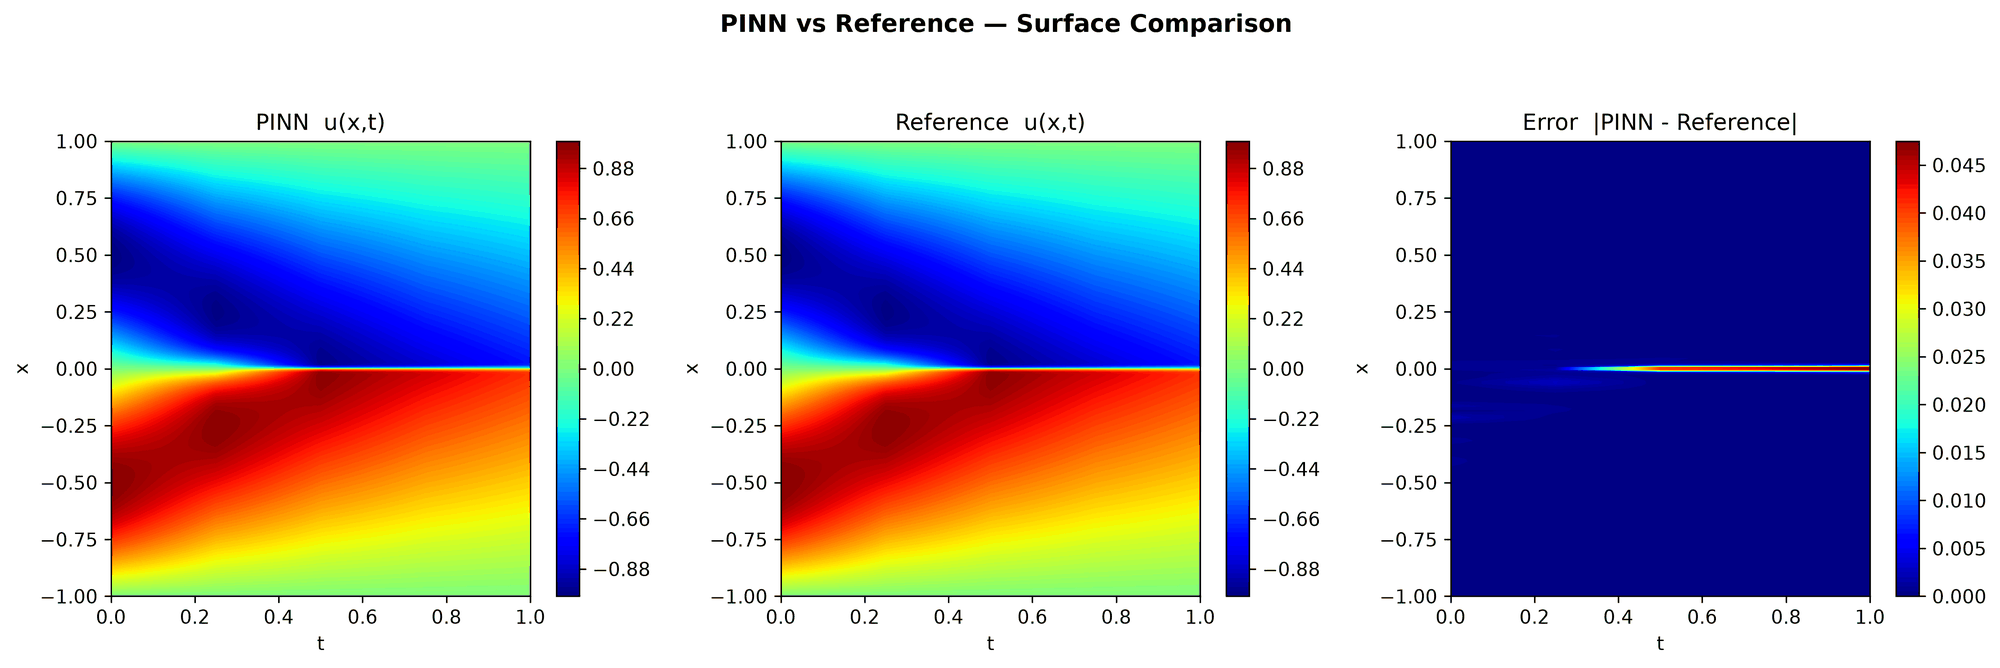
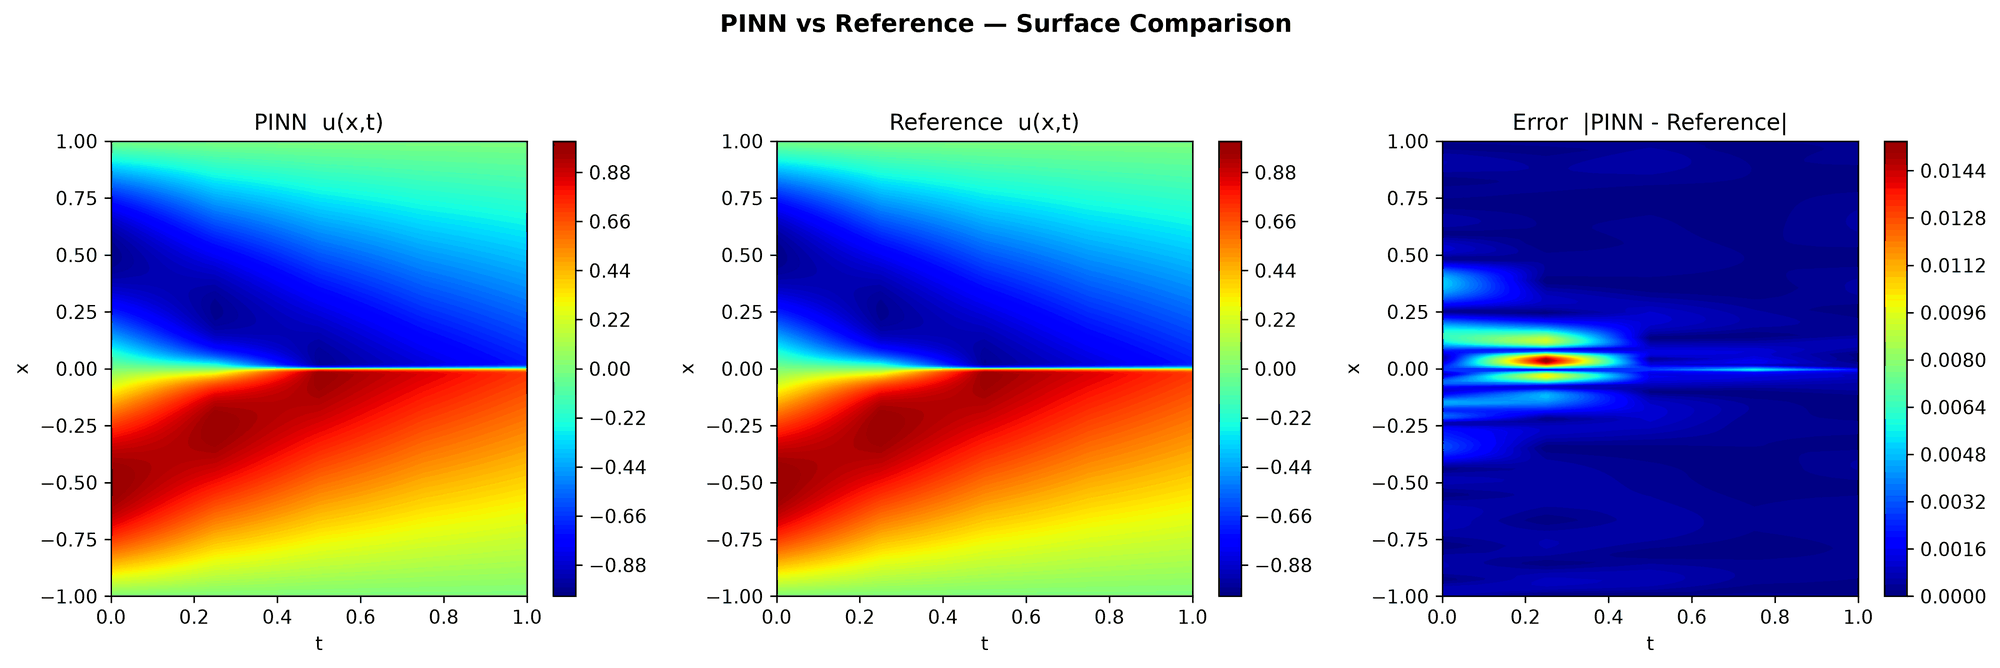
Burgers 1D – RAR: 3 rounds of 100 highest-residual points (DeepXDE's 1-point/0.005 loop would stop after one point here), README note, result and collocation-points figure

diff --git a/pinnstudio/core/deepxde_examples.py b/pinnstudio/core/deepxde_examples.py
@@ -511,14 +511,15 @@ EXAMPLES = [
         dict(pde_expressions="du_t + u*du_x - 0.01/pi*du_xx", ic_expressions="-sin(pi*x)",
              custom_bc_json=_bcs(_bc("dirichlet", "True", "0")),
              num_domain=2500, num_boundary=100, num_initial=160, num_test=1000,
-             adapt_method="RAR", rar_candidates=100000, rar_add_points=1, rar_adam_iters=10000,
-             rar_lbfgs_iters=15000, rar_tolerance=0.005, rar_cycles=100,
+             adapt_method="RAR", rar_candidates=100000, rar_add_points=100, rar_adam_iters=10000,
+             rar_lbfgs_iters=15000, rar_tolerance=0.0, rar_cycles=3,
              ea_files=_BURGERS_REF),
         _net([2, 20, 20, 20, 1], "Glorot normal"), _adam(10000), _LBFGS,
         note=_BURGERS_NOTE + " "
-             "DeepXDE adds one point per round until the mean residual is below 0.005, with early stopping "
-             "inside each round's Adam phase; here rounds stop at the same tolerance (capped at 100) and "
-             "run their full Adam iterations."),
+             "RAR: 3 rounds, each adding the 100 points with the largest residual (out of 100,000 candidates) "
+             "and retraining, with no residual tolerance. DeepXDE's script adds 1 point per round until the mean "
+             "residual is below 0.005, but after the first training the mean residual is already below that "
+             "(about 3e-3), so its loop would add a single point and stop -- too little to show refinement."),
 
     _ex("Heat equation", FORWARD, _DOCS + "pinn_forward/heat.html",
         _time_1d(0, 1, 0, 1),

diff --git a/CHANGELOG.md b/CHANGELOG.md
@@ -49,6 +49,7 @@ The format is based on [Keep a Changelog](https://keepachangelog.com/en/1.1.0/).
 ### Changed
 
 - **DeepXDE's plain Burgers 1D example removed** (62 examples): Burgers 1D – Raissi et al. covers the same problem with a finer setup, and DeepXDE's Burgers 1D – RAR stays.
+- **DeepXDE's Burgers 1D – RAR example refines in 3 rounds of 100 points** (no residual tolerance) instead of DeepXDE's 1 point per round until the mean residual is below 0.005: after the first training the residual is already below that, so DeepXDE's loop would add a single point and stop. The README entry explains this and shows where the added points go (onto the shock).
 - **DeepXDE's Burgers 1D – RAR example runs to t = 1** (DeepXDE's script stops at 0.99, where its Burgers.npz data ends) and Error Analysis compares at t = 0, 0.25, 0.5, 0.75 and 1 against the exact solution. The README's Parameter Sweep section has a new panel screenshot and a worked example: Burgers 1D network size (hidden layers × neurons, as in Raissi et al.'s Table 1) with its summary plot and error table.
 - **Parameter Sweep layout and folder names**: *Enable Parameter Sweep*, *Show sweep reference* and *Refresh* share the panel's top row (Refresh, now actually connected, shown only while the sweep is enabled). The sweep folder is named like a normal run, `<example>_sweep__YYYY-MM-DD_HH-MM-SS` (was `sweep_YYYYmmdd_HHMMSS`), and run folders `run_01__Phase-1-Iterations_1000` (was `run_001_Phase_1_Iterations=1000`). Run folder labels turn an en dash into a dash (`Poisson_1D-Dirichlet`, was `Poisson_1D__Dirichlet`).
 - **Quick Examples in two categories, Forward and Inverse**, each listing PINNStudio's templates and DeepXDE's examples together, ordered ODE → 1D → 2D → 3D under headings (steady before time-dependent, same problems next to each other), with one naming style, *Equation Dimension – detail* (e.g. "Burgers 1D – RAR", "Lorenz ODE – unknown C₁, C₂, C₃"); every name is unique, so the list shows the name alone. A template picked from the Inverse list loads in Inverse mode. Saved projects, links and scripts that use the old names keep working. The README's Examples table uses the same names and order; its Source column is a link: **DeepXDE** opens the example's script in DeepXDE's repository, a template's authors (Raissi et al., Wight & Zhao, ...) open its paper, and PINNStudio's own templates show "—"; every reference-file comparison is labelled *Generated data*, and each DeepXDE example's entry links its script as well as its documentation page.

diff --git a/README.md b/README.md
@@ -1315,12 +1315,14 @@ $$\Large \frac{\partial u}{\partial t} + u\frac{\partial u}{\partial x} = \frac{
 
 - **Initial / boundary conditions:** $u(x, 0) = -\sin(\pi x)$, $u(\pm 1, t) = 0$
 - **Time range / reference:** $t \in [0, 1]$, compared with the exact solution at $t = 0, 0.25, 0.5, 0.75, 1$
-- **Residual-based adaptive refinement:** each round adds the 1 point with the largest residual (out of 100,000 candidates) and retrains, until the mean residual is below 0.005
+- **Residual-based adaptive refinement:** 3 rounds, each adding the 100 points with the largest PDE residual (out of 100,000 random candidates) and retraining (Adam 10,000 → L-BFGS 15,000)
 - **Network:** FNN [2, 20, 20, 20, 1], tanh, Glorot normal
 - **Training:** Adam 10,000 → L-BFGS 15,000 per RAR round; 2,500 domain, 100 boundary, 160 initial points
 - **GUI recipe:** Quick Examples → Category **Forward** → **Burgers 1D – RAR**
 
-**Result (RTX 4090):** L2 = 4.9e-4 ($t = 0$), 6.0e-4 ($t = 0.25$), 7.2e-3 ($t = 0.5$), 8.9e-3 ($t = 0.75$), 1.2e-2 ($t = 1$)
+**Why not DeepXDE's one-point refinement.** DeepXDE's script adds 1 point per round until the mean residual is below 0.005. Here, after the first training the mean residual is already about 3–4 × 10⁻³, so that loop would add a single point and stop, which shows nothing. This example therefore turns the tolerance off and runs 3 rounds of 100 points instead. The collocation-point figure below shows where they go: onto the shock at $x = 0$ once it has formed ($t \gtrsim 0.3$), the region of largest error. The $L_2$ error at $t = 1$, where the shock is steepest, falls from 2.6 × 10⁻² after round 1 to 4.0 × 10⁻³ after round 2 and 8.4 × 10⁻⁴ after round 3.
+
+**Result (RTX 4090):** L2 = 3.1e-3 ($t = 0$), 4.6e-3 ($t = 0.25$), 1.0e-3 ($t = 0.5$), 1.3e-3 ($t = 0.75$), 8.4e-4 ($t = 1$)
 
 *u — PINN solution over time*
 
@@ -1329,6 +1331,10 @@ $$\Large \frac{\partial u}{\partial t} + u\frac{\partial u}{\partial x} = \frac{
 *PINN vs reference, error analysis*
 
 ![Burgers 1D – RAR — PINN vs reference, error analysis](assets/Images/DeepXDE/Burgers_equation_with_RAR/surface_comparison.png)
+
+*Collocation points after the last RAR round: original points (gray), points added in earlier rounds (orange) and in the last round (red)*
+
+![Burgers 1D – RAR — collocation points after the last RAR round: original points (gray), points added in earlier rounds (orange) and in the last round (red)](assets/Images/DeepXDE/Burgers_equation_with_RAR/rar_collocation_points.png)
 
 </details>
 
